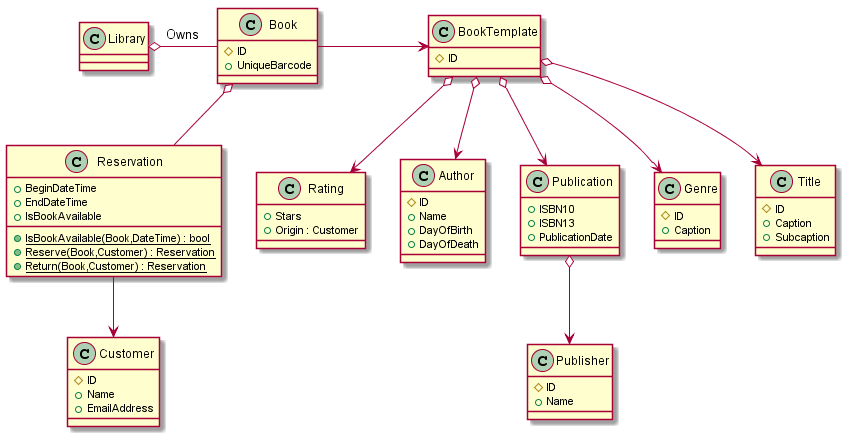
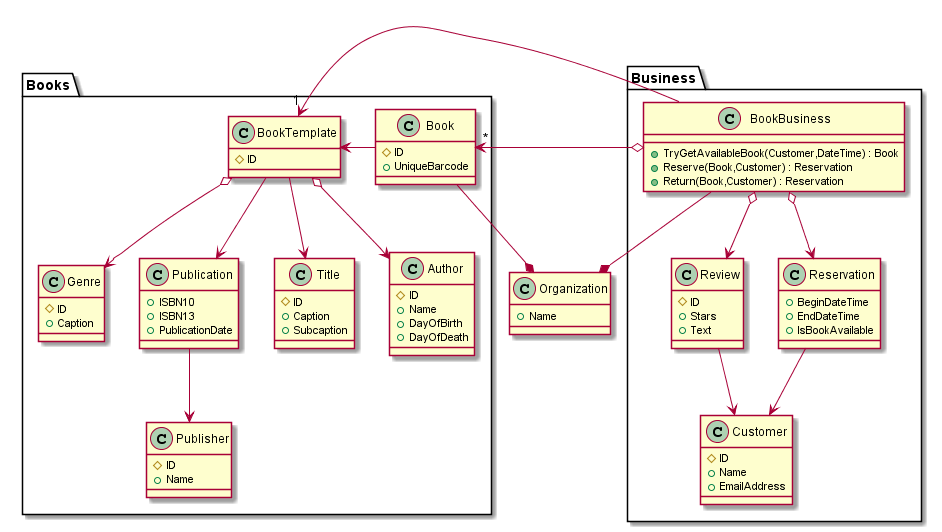
Splitting project into ".API" and ".Domain" project
I'm keeping related classes in the same namespace (e.g., "Nerds.Library.Books") even though they are in different projects (e.g., ".API" or ".Domain"). This keeps the namespaces clean and cohesive but the class dependencies decoupled still.

diff --git a/Nerds.Library.API/Books/BooksController.cs b/Nerds.Library.API/Books/BooksController.cs
@@ -1,0 +1,52 @@
+using Microsoft.AspNetCore.Mvc;
+using System.Collections.Generic;
+
+namespace Nerds.Library.Books
+{
+    /// <summary>
+    /// Controlling books.
+    /// </summary>
+    [Route("api/[controller]")]
+    [ApiController]
+    public class BooksController : ControllerBase
+    {
+        /// <summary>
+        /// Gets the list of all available books in this library
+        /// </summary>
+        /// <remarks>Requirement 1.</remarks>
+        /// <returns>The value</returns>
+        // GET api/values
+        [HttpGet]
+        public ActionResult<IEnumerable<string>> Get()
+        {
+            return new string[] { "value1", "value2" };
+        }
+
+
+        // DELETE api/values/5
+        [HttpDelete("{id}")]
+        public void Delete(int id)
+        {
+        }
+
+
+        // GET api/values/5
+        [HttpGet("{id}")]
+        public ActionResult<string> Get(int id)
+        {
+            return "value";
+        }
+
+        // POST api/values
+        [HttpPost]
+        public void Post([FromBody] string value)
+        {
+        }
+
+        // PUT api/values/5
+        [HttpPut("{id}")]
+        public void Put(int id, [FromBody] string value)
+        {
+        }
+    }
+}

diff --git a/Nerds.Library.Domain/Business/Rating.cs b/Nerds.Library.Domain/Business/Rating.cs
@@ -1,0 +1,30 @@
+using System.Linq;
+
+namespace Nerds.Library.Books
+{
+    /// <summary>
+    /// A rating for some book.
+    /// </summary>
+    internal sealed class Rating
+    {
+        /// <summary>
+        /// The book being rated.
+        /// </summary>
+        public BookTemplate Book { get; set; }
+
+        /// <summary>
+        /// The number of stars (1..5) given tot a book.
+        /// </summary>
+        public double Stars { get; set; }
+
+        /// <summary>
+        /// Aggregates various ratings into a single composite value.
+        /// </summary>
+        /// <param name="ratings">The ratings to aggregate.</param>
+        /// <returns>An average <see cref="Rating"/>.</returns>
+        public static Rating Aggregate(IQueryable<Rating> ratings)
+        {
+            return new Rating { Stars = ratings.Average(r => r.Stars) };
+        }
+    }
+}

diff --git a/Nerds.Library.Domain/Books/Book.cs b/Nerds.Library.Domain/Books/Book.cs
@@ -3,9 +3,9 @@
 namespace Nerds.Library.Books
 {
     /// <summary>
-    /// A publisher of books.
+    /// A single instance of a book. Every instance is at one physical location at a time.
     /// </summary>
-    internal sealed class Publisher
+    public sealed class Book
     {
         /// <summary>
         /// The globally unique identifier of this instance.
@@ -13,8 +13,8 @@ namespace Nerds.Library.Books
         public Guid Id { get; set; }
 
         /// <summary>
-        /// The name of the publisher.
+        /// The unique barcode to distinguish instances of the same book. Can be same as <see cref="Id"/>.
         /// </summary>
-        public string Name { get; set; }
+        public string UniqueBarcode { get; set; }
     }
 }

diff --git a/Nerds.Library.Domain/Books/Publisher.cs b/Nerds.Library.Domain/Books/Publisher.cs
@@ -3,9 +3,9 @@
 namespace Nerds.Library.Books
 {
     /// <summary>
-    /// A single instance of a book. Every instance is at one physical location at a time.
+    /// A publisher of books.
     /// </summary>
-    internal sealed class Book
+    public sealed class Publisher
     {
         /// <summary>
         /// The globally unique identifier of this instance.
@@ -13,8 +13,8 @@ namespace Nerds.Library.Books
         public Guid Id { get; set; }
 
         /// <summary>
-        /// The unique barcode to distinguish instances of the same book. Can be same as <see cref="Id"/>.
+        /// The name of the publisher.
         /// </summary>
-        public string UniqueBarcode { get; set; }
+        public string Name { get; set; }
     }
 }

diff --git a/Nerds.Library.Domain/Organization.cs b/Nerds.Library.Domain/Organization.cs
@@ -1,0 +1,22 @@
+using Nerds.Library.Books;
+using System.Linq;
+
+namespace Nerds.Library
+{
+    /// <summary>
+    /// A library under management of this system.
+    /// </summary>
+    public sealed class Organization
+    {
+        /// <summary>
+        /// The collection of owned books.
+        /// </summary>
+        public IQueryable<Book> OwnedBooks { get; set; }
+
+        // TODO:
+        /////// <summary>
+        /////// The book businesses.
+        /////// </summary>
+        ////public IQueryable<BookBusiness> BookBusinesses { get; set; }
+    }
+}

diff --git a/Nerds.Library.Domain/Books/BookTemplate.cs b/Nerds.Library.Domain/Books/BookTemplate.cs
@@ -6,7 +6,7 @@ namespace Nerds.Library.Books
     /// <summary>
     /// A template for <see cref="Book"/>.
     /// </summary>
-    internal sealed class BookTemplate
+    public sealed class BookTemplate
     {
         /// <summary>
         /// The globally unique identifier of this instance.

diff --git a/Nerds.Library.Domain/Books/Publication.cs b/Nerds.Library.Domain/Books/Publication.cs
@@ -5,7 +5,7 @@ namespace Nerds.Library.Books
     /// <summary>
     /// The publication metadata of a book.
     /// </summary>
-    internal sealed class Publication
+    public sealed class Publication
     {
         /// <summary>
         /// The moment of publication.

diff --git a/Nerds.Library.Domain/Books/Genre.cs b/Nerds.Library.Domain/Books/Genre.cs
@@ -5,7 +5,7 @@ namespace Nerds.Library.Books
     /// <summary>
     /// The genre of a book.
     /// </summary>
-    internal sealed class Genre
+    public sealed class Genre
     {
         /// <summary>
         /// The globally unique identifier of this instance.

diff --git a/Nerds.Library.Domain/Books/Title.cs b/Nerds.Library.Domain/Books/Title.cs
@@ -3,7 +3,7 @@
     /// <summary>
     /// The title metadata of a book
     /// </summary>
-    internal sealed class Title
+    public sealed class Title
     {
         /// <summary>
         /// The main caption.

diff --git a/Nerds.Library.Domain/Books/Author.cs b/Nerds.Library.Domain/Books/Author.cs
@@ -2,7 +2,7 @@
 
 namespace Nerds.Library.Books
 {
-    internal sealed class Author
+    public sealed class Author
     {
         /// <summary>
         /// The globally unique identifier of this instance.
